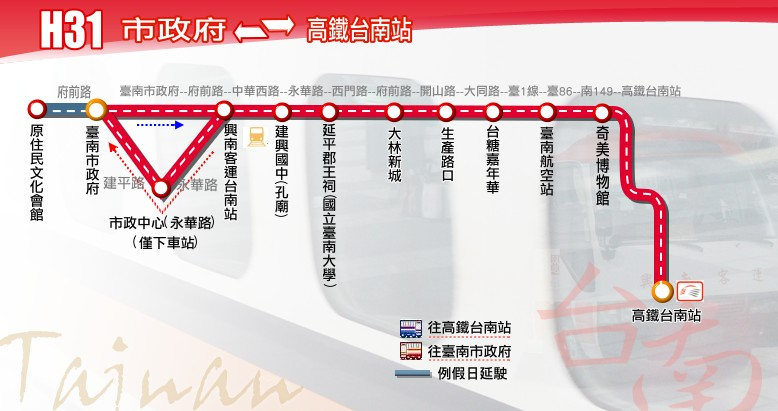
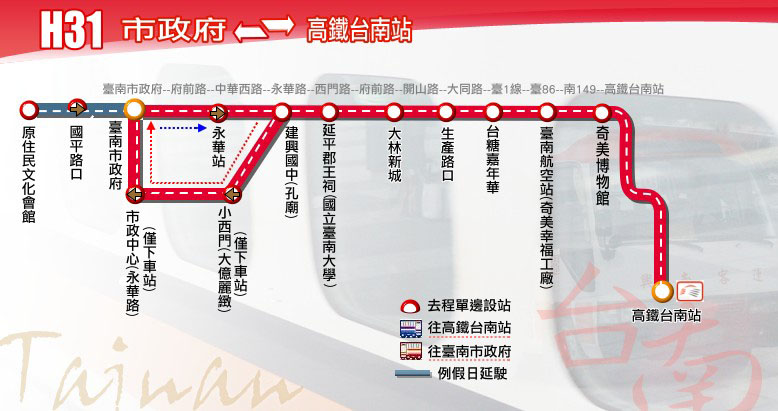
新增站位：H62(增「義林一街口」)、H31(增「國平路口」(往高鐵))； 站位更名：H31(「興南客運台南站」更名為「永華站」(往高鐵)與「小西門(大億麗緻)」(往市府))

diff --git a/route/fare_and_time/hsr_shuttle_h31.js b/route/fare_and_time/hsr_shuttle_h31.js
@@ -1,9 +1,9 @@
 // format = [time at the start stop] or
 // [time, other] or
 // [time, start_stop, end_stop, other]
-hsr_shuttle_h31_main_stop_name = ["原住民文化會館<br /><font color=\"red\">(假日延駛)</font>","臺南市政府","興南客運<br />臺南站","延平郡王祠<br />(國立臺南大學)","大林新城","臺南航空站","奇美博物館","高鐵臺南站"];
+hsr_shuttle_h31_main_stop_name = ["原住民文化會館<br /><span style='color: red;'>(假日延駛)</span>","臺南市政府","永華站","延平郡王祠<br />(國立臺南大學)","大林新城","臺南航空站<br />(奇美幸福工廠)","奇美博物館","高鐵臺南站"];
 hsr_shuttle_h31_main_stop_time_consume = [0, 10, 17, 25, 30, 40, 45, 60];
-hsr_shuttle_h31_important_stop = [0, 1, 5, 6, 7]; // 桂田酒店, 臺南市政府, 臺南航空站, 奇美博物館, 高鐵臺南站
+hsr_shuttle_h31_important_stop = [0, 1, 5, 6, 7]; // 原住民文化會館, 臺南市政府, 臺南航空站(奇美幸福工廠), 奇美博物館, 高鐵臺南站
 var start_stop = 1; // 臺南市政府
 var end_stop = 7; // 高鐵臺南站
 hsr_shuttle_h31_time_go = [["05:30",start_stop,end_stop],["06:00",start_stop,end_stop],["06:40",start_stop,end_stop],["07:00",start_stop,end_stop],["07:35",start_stop,end_stop],["07:50",start_stop,end_stop],["08:20",start_stop,end_stop],
@@ -12,9 +12,16 @@ hsr_shuttle_h31_time_go = [["05:30",start_stop,end_stop],["06:00",start_stop,end
 ["14:40"],["15:20",start_stop,end_stop],["15:35",start_stop,end_stop],["15:40"],["16:20",start_stop,end_stop],["16:35",start_stop,end_stop],["16:40"],["17:20",start_stop,end_stop],["17:35",start_stop,end_stop],["17:40"],
 ["18:20",start_stop,end_stop],["18:35",start_stop,end_stop],["18:40"],["19:20",start_stop,end_stop],["19:35",start_stop,end_stop],["19:40"],["20:20",start_stop,end_stop],["20:35",start_stop,end_stop],["20:40"],["21:20",start_stop,end_stop],
 ["21:35",start_stop,end_stop],["21:50",start_stop,end_stop],["22:35",start_stop,end_stop],["22:55",start_stop,end_stop]];
-hsr_shuttle_h31_time_return = [["07:00",end_stop,start_stop],["07:35",end_stop,start_stop],["07:50",end_stop,start_stop],["08:20",end_stop,start_stop],["08:35",end_stop,start_stop],["08:50"],["09:20",end_stop,start_stop],
-["09:35",end_stop,start_stop],["09:50"],["10:20",end_stop,start_stop],["10:35",end_stop,start_stop],["10:50"],["11:20",end_stop,start_stop],["11:35",end_stop,start_stop],["11:50"],["12:20",end_stop,start_stop],["12:35",end_stop,start_stop],
-["12:50"],["13:20",end_stop,start_stop],["13:35",end_stop,start_stop],["13:50"],["14:20",end_stop,start_stop],["14:35",end_stop,start_stop],["14:50"],["15:20",end_stop,start_stop],["15:35",end_stop,start_stop],
-["15:50"],["16:20",end_stop,start_stop],["16:35",end_stop,start_stop],["16:50"],["17:20",end_stop,start_stop],["17:35",end_stop,start_stop],["17:50"],["18:20",end_stop,start_stop],["18:35",end_stop,start_stop],["18:50"],
-["19:20",end_stop,start_stop],["19:35",end_stop,start_stop],["19:50"],["20:20",end_stop,start_stop],["20:35",end_stop,start_stop],["20:50",end_stop,start_stop],["21:20",end_stop,start_stop],["21:35",end_stop,start_stop],["21:50",end_stop,start_stop],
-["22:20",end_stop,start_stop],["22:40",end_stop,start_stop],["23:20",end_stop,start_stop],["23:35",end_stop,start_stop],["00:00",end_stop,start_stop]];
+
+// The name of return stops are different
+hsr_shuttle_h31_main_stop_name_return = ["高鐵臺南站","奇美博物館","臺南航空站<br />(奇美幸福工廠)","大林新城","延平郡王祠<br />(國立臺南大學)","小西門<br />(大億麗緻)","臺南市政府","原住民文化會館<br /><span style='color: red;'>(假日延駛)</span>"];
+hsr_shuttle_h31_main_stop_time_consume_return = [0, 15, 20, 30, 35, 43, 50, 60];
+hsr_shuttle_h31_important_stop_return = [0, 1, 2, 6, 7]; // 高鐵臺南站, 奇美博物館, 臺南航空站(奇美幸福工廠), 臺南市政府, 原住民文化會館
+var start_stop_return = 0; // 高鐵臺南站
+var end_stop_return = 6; // 臺南市政府
+hsr_shuttle_h31_time_return = [["07:00",start_stop_return,end_stop_return],["07:35",start_stop_return,end_stop_return],["07:50",start_stop_return,end_stop_return],["08:20",start_stop_return,end_stop_return],["08:35",start_stop_return,end_stop_return],["08:50"],["09:20",start_stop_return,end_stop_return],
+["09:35",start_stop_return,end_stop_return],["09:50"],["10:20",start_stop_return,end_stop_return],["10:35",start_stop_return,end_stop_return],["10:50"],["11:20",start_stop_return,end_stop_return],["11:35",start_stop_return,end_stop_return],["11:50"],["12:20",start_stop_return,end_stop_return],["12:35",start_stop_return,end_stop_return],
+["12:50"],["13:20",start_stop_return,end_stop_return],["13:35",start_stop_return,end_stop_return],["13:50"],["14:20",start_stop_return,end_stop_return],["14:35",start_stop_return,end_stop_return],["14:50"],["15:20",start_stop_return,end_stop_return],["15:35",start_stop_return,end_stop_return],
+["15:50"],["16:20",start_stop_return,end_stop_return],["16:35",start_stop_return,end_stop_return],["16:50"],["17:20",start_stop_return,end_stop_return],["17:35",start_stop_return,end_stop_return],["17:50"],["18:20",start_stop_return,end_stop_return],["18:35",start_stop_return,end_stop_return],["18:50"],
+["19:20",start_stop_return,end_stop_return],["19:35",start_stop_return,end_stop_return],["19:50"],["20:20",start_stop_return,end_stop_return],["20:35",start_stop_return,end_stop_return],["20:50",start_stop_return,end_stop_return],["21:20",start_stop_return,end_stop_return],["21:35",start_stop_return,end_stop_return],["21:50",start_stop_return,end_stop_return],
+["22:20",start_stop_return,end_stop_return],["22:40",start_stop_return,end_stop_return],["23:20",start_stop_return,end_stop_return],["23:35",start_stop_return,end_stop_return],["00:00",start_stop_return,end_stop_return]];

diff --git a/route/fare_and_time/hsr_shuttle_h62.js b/route/fare_and_time/hsr_shuttle_h62.js
@@ -1,11 +1,11 @@
 // format = [time at the start stop] or
 // [time, other] or
 // [time, start_stop, end_stop, other]
-hsr_shuttle_h62_main_stop_name = ["桂田酒店","奇美醫院","兵仔市","南紡夢時代","文化中心","富農街口","仁德交流道","高鐵臺南站"];
-hsr_shuttle_h62_main_stop_time_consume = [0, 15, 22, 25, 40, 50, 55, 80];
-hsr_shuttle_h62_important_stop = [0, 1, 3, 7]; // 桂田酒店, 奇美醫院, 南紡夢時代, 高鐵臺南站
+hsr_shuttle_h62_main_stop_name = ["桂田酒店","奇美醫院","兵仔市","南紡<br />購物中心","文化中心","富農街口","仁德交流道","義林一街口","高鐵臺南站"];
+hsr_shuttle_h62_main_stop_time_consume = [0, 15, 22, 25, 35, 42, 45, 50, 65];
+hsr_shuttle_h62_important_stop = [0, 1, 3, 6, 8]; // 桂田酒店, 奇美醫院, 南紡購物中心, 仁德交流道, 高鐵臺南站
 var start_stop = 1; // 奇美醫院
-var end_stop = 7; // 高鐵臺南站
+var end_stop = 8; // 高鐵臺南站
 hsr_shuttle_h62_time_go = [["05:25",start_stop,end_stop],["05:50",start_stop,end_stop],["06:25",start_stop,end_stop],["07:00",start_stop,end_stop],["07:25",start_stop,end_stop],["08:00",start_stop,end_stop],["08:25",start_stop,end_stop],
 ["08:45"],["09:25",start_stop,end_stop],["09:35",start_stop,end_stop],["10:00",start_stop,end_stop],["10:10"],["11:00",start_stop,end_stop],["11:10"],["12:00",start_stop,end_stop],["12:10",start_stop,end_stop],
 ["12:35",start_stop,end_stop],["12:45"],["13:10"],["13:55",start_stop,end_stop],["14:15",start_stop,end_stop],["14:25",start_stop,end_stop],["15:00",start_stop,end_stop],["15:20"],["15:45",start_stop,end_stop],["16:05",start_stop,end_stop],

diff --git a/hsr_shuttle/166.html b/hsr_shuttle/166.html
@@ -23,7 +23,6 @@
 	block_route_map('166路「高鐵嘉義站-鹽水」各站位地址請<a href="../route/hsr_shuttle/166_stop_address.jpg" target="_blank">點此查看</a>');
 	block_route_info(route_interval,'阿里山客運','','里程計費','javascript: alert(\'暫無公車動態\');');
 	block_fare_highway("Chiayi","<h1>本路線於<span style='color: darkgreen;'>106年1月25日(開通日)至106年2月11日免費搭乘</span></h1>");
-	//block_time_schedule('高鐵嘉義站','鹽水','');
 	block_time_schedule_diffreturn('鹽水-&gt;故宮南院','高鐵嘉義站-&gt;鹽水','');
 	block_transfer(transfer_yanshui + transfer_hsr_chiayi_station);
 	block_copyright();

diff --git a/hsr_shuttle/H31.html b/hsr_shuttle/H31.html
@@ -37,7 +37,7 @@
 		</div>\
 	</div>\
 </div>');
-	block_time_schedule('臺南市政府/原住民文化會館','高鐵臺南站','');
+	block_time_schedule_diffreturn('臺南市政府/原住民文化會館-&gt;高鐵臺南站','高鐵臺南站-&gt;臺南市政府/原住民文化會館','');
 	block_transfer(transfer_aboriginal_culture_center + transfer_hsr_tainan_station);
 	block_copyright();
 </script>
